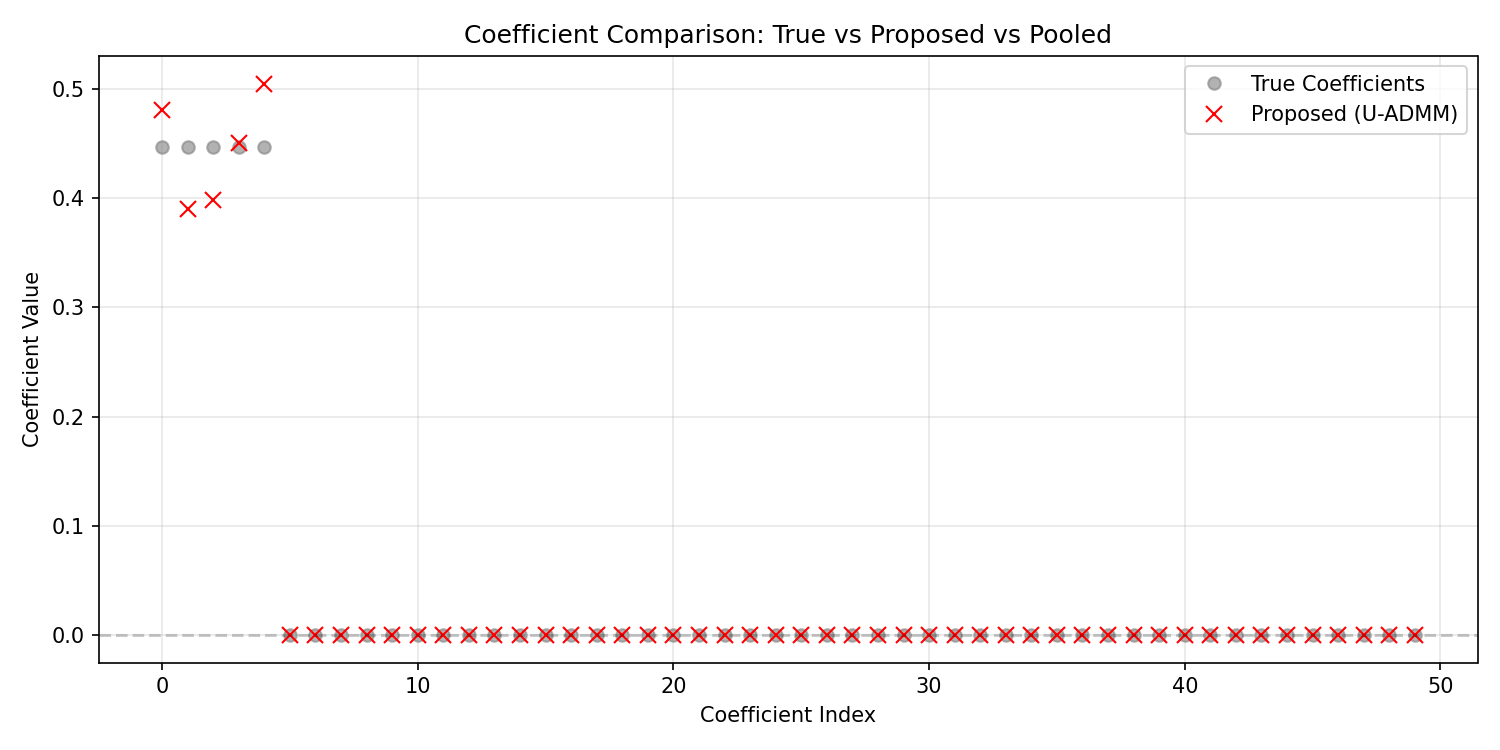
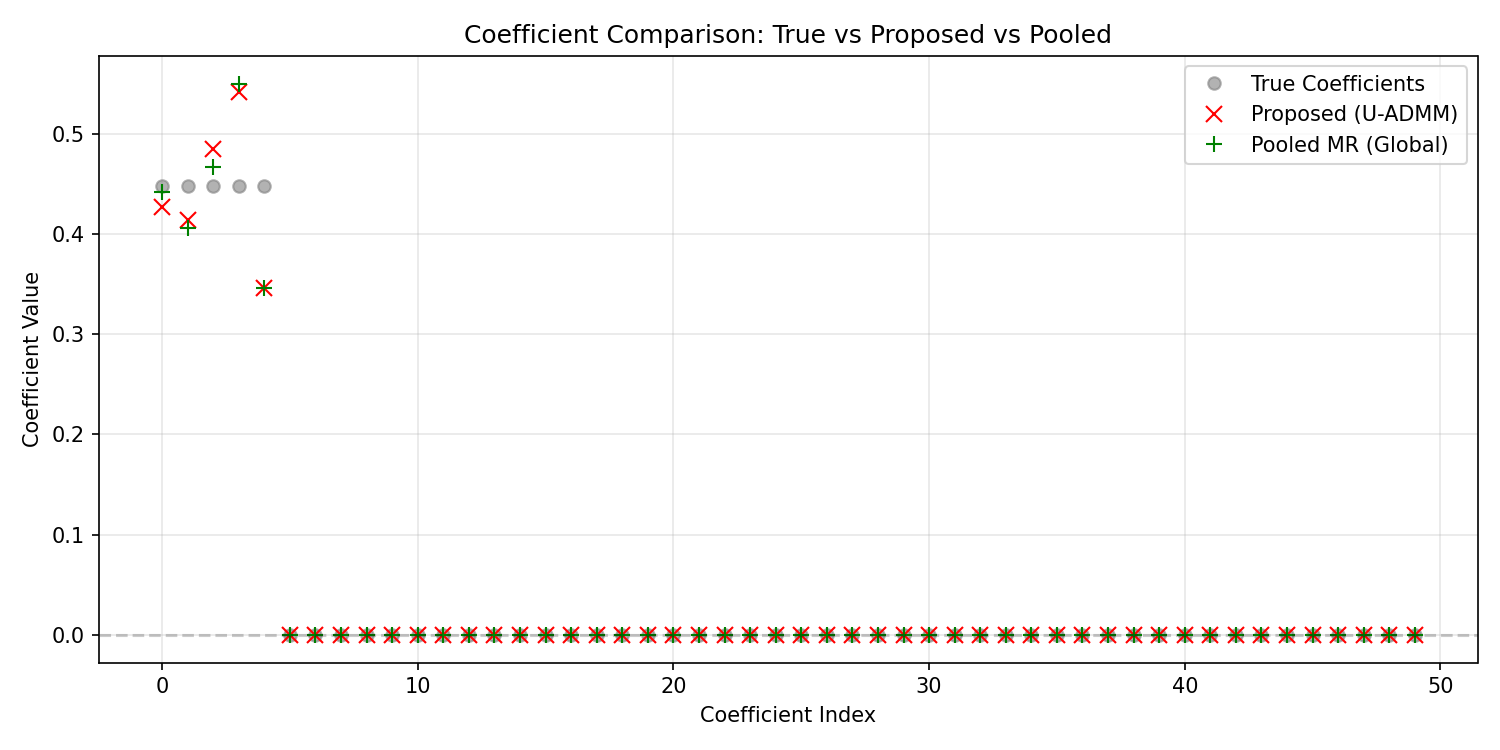
0.99999

diff --git a/algorithms/baselines.py b/algorithms/baselines.py
@@ -4,10 +4,84 @@ from models.ranking import rank_grad, rank_loss, ranking_pairs
 from models.aft import aft_grad, aft_loss, aft_pairs
 from algorithms.admm import local_gd
 
+# def run_global_u_erm(data, lr=0.5, n_iter=300, lambda_candidates=None, ic_type='bic', init_theta=None, return_history=False, tol=1e-5):
+#     """
+#     Pooled MR (Global U-ERM): 将所有本地数据汇总到一台机器上。
+#     引入正则化路径 (降序排列) + 连续热启动 + 双阶段解耦。
+#     """
+#     task = data['task']
+#     p = data['p']
+#     theta_true = data.get('theta_true', None) if return_history else None
+    
+#     if task == 'ranking':
+#         X_all = np.vstack(data['X'])
+#         Y_all = np.concatenate(data['Y'])
+#         dX, S = ranking_pairs(X_all, Y_all)
+        
+#         gfn = lambda th: rank_grad(th, dX, S)
+#         lfn = lambda th: rank_loss(th, dX, S)
+#         init = init_theta.copy() if init_theta is not None else np.ones((p, 1)) / np.sqrt(p)
+#         project = True
+        
+#     elif task == 'aft':
+#         X_all = np.vstack(data['X'])
+#         logTt_all = np.concatenate(data['logTt'])
+#         delta_all = np.concatenate(data['delta'])
+#         Sigma = data['Sigma']
+        
+#         dX, dlogTt, r2, r, di, dj, n_val = aft_pairs(X_all, logTt_all, delta_all, Sigma)
+        
+#         gfn = lambda th: aft_grad(th, dX, dlogTt, r2, r, di, dj, n_val)
+#         lfn = lambda th: aft_loss(th, dX, dlogTt, r2, r, di, dj, n_val)
+#         init = init_theta.copy() if init_theta is not None else np.zeros((p, 1))
+#         project = False
+        
+#     if lambda_candidates is not None and len(lambda_candidates) > 0:
+#         best_ic = float('inf')
+#         best_lam = 0.0
+#         N_total = sum(data['X'][j].shape[0] for j in range(data['m']))
+        
+#         # 核心改造 1：强制降序排列 lambda_candidates
+#         sorted_lambdas = sorted(lambda_candidates, reverse=True)
+#         # 核心改造 2：建立流动的热启动起点
+#         current_init_theta = init.copy()
+        
+#         # --- 阶段一：极速调参寻找最优 lambda ---
+#         for lam in sorted_lambdas:
+#             # 开启提前终止 (如果 local_gd 支持 tol) 进行极速收敛，不记录 history
+#             theta_tmp = local_gd(gfn, lfn, current_init_theta, n_iter=n_iter, lr_init=lr, project=project, lam=lam)
+            
+#             # 核心改造 3：用当前收敛的参数更新流动起点，喂给下一个更小的 lam
+#             current_init_theta = theta_tmp.copy()
+            
+#             loss_val = lfn(theta_tmp)
+#             df = np.sum(np.abs(theta_tmp) > 1e-4)
+#             avg_loss = loss_val if loss_val > 0 else 1e-10
+            
+#             if ic_type.lower() == 'aic':
+#                 ic_val = np.log(avg_loss) + (2.0 / N_total) * df
+#             else:
+#                 ic_val = np.log(avg_loss) + (np.log(N_total) / N_total) * df
+            
+#             if ic_val < best_ic:
+#                 best_ic = ic_val
+#                 best_lam = lam
+#     else:
+#         best_lam = 0.0
+
+#     # --- 阶段二：画图阶段 (使用全局最优 lambda 严格跑满 n_iter 轮) ---
+#     if return_history:
+#         # 回退到原始起点 init，严格跑满并记录 history
+#         best_theta, best_history = local_gd(gfn, lfn, init, n_iter=n_iter, lr_init=lr, project=project, lam=best_lam, theta_true=theta_true)
+#         return best_theta, best_history
+#     else:
+#         best_theta = local_gd(gfn, lfn, init, n_iter=n_iter, lr_init=lr, project=project, lam=best_lam)
+#         return best_theta
+# #以上的方法是继承制lam，以下的算法是并行lam
 def run_global_u_erm(data, lr=0.5, n_iter=300, lambda_candidates=None, ic_type='bic', init_theta=None, return_history=False, tol=1e-5):
     """
     Pooled MR (Global U-ERM): 将所有本地数据汇总到一台机器上。
-    引入正则化路径 (降序排列) + 连续热启动 + 双阶段解耦。
+    取消热启动，每个 lambda 独立从头开始，保证绝对公平的评估。
     """
     task = data['task']
     p = data['p']
@@ -41,18 +115,12 @@ def run_global_u_erm(data, lr=0.5, n_iter=300, lambda_candidates=None, ic_type='
         best_lam = 0.0
         N_total = sum(data['X'][j].shape[0] for j in range(data['m']))
         
-        # 核心改造 1：强制降序排列 lambda_candidates
         sorted_lambdas = sorted(lambda_candidates, reverse=True)
-        # 核心改造 2：建立流动的热启动起点
-        current_init_theta = init.copy()
         
         # --- 阶段一：极速调参寻找最优 lambda ---
         for lam in sorted_lambdas:
-            # 开启提前终止 (如果 local_gd 支持 tol) 进行极速收敛，不记录 history
-            theta_tmp = local_gd(gfn, lfn, current_init_theta, n_iter=n_iter, lr_init=lr, project=project, lam=lam)
-            
-            # 核心改造 3：用当前收敛的参数更新流动起点，喂给下一个更小的 lam
-            current_init_theta = theta_tmp.copy()
+            # 🔴 核心修复：绝对公平原则！取消热启动，每次测试新的 lam 都从最原始的 init.copy() 重新出发
+            theta_tmp = local_gd(gfn, lfn, init.copy(), n_iter=n_iter, lr_init=lr, project=project, lam=lam)
             
             loss_val = lfn(theta_tmp)
             df = np.sum(np.abs(theta_tmp) > 1e-4)
@@ -72,10 +140,10 @@ def run_global_u_erm(data, lr=0.5, n_iter=300, lambda_candidates=None, ic_type='
     # --- 阶段二：画图阶段 (使用全局最优 lambda 严格跑满 n_iter 轮) ---
     if return_history:
         # 回退到原始起点 init，严格跑满并记录 history
-        best_theta, best_history = local_gd(gfn, lfn, init, n_iter=n_iter, lr_init=lr, project=project, lam=best_lam, theta_true=theta_true)
+        best_theta, best_history = local_gd(gfn, lfn, init.copy(), n_iter=n_iter, lr_init=lr, project=project, lam=best_lam, theta_true=theta_true)
         return best_theta, best_history
     else:
-        best_theta = local_gd(gfn, lfn, init, n_iter=n_iter, lr_init=lr, project=project, lam=best_lam)
+        best_theta = local_gd(gfn, lfn, init.copy(), n_iter=n_iter, lr_init=lr, project=project, lam=best_lam)
         return best_theta
 
 def run_dgd(data, T=50, lr=0.1, lambda_candidates=None, ic_type='bic', theta_init_list=None, return_history=False, tol=1e-4):

diff --git a/utils/runner.py b/utils/runner.py
@@ -1,3 +1,11 @@
+import os
+# 🟢 终极并行加速：必须在 import numpy 之前锁死底层多线程！
+os.environ['OMP_NUM_THREADS'] = '1'
+os.environ['OPENBLAS_NUM_THREADS'] = '1'
+os.environ['MKL_NUM_THREADS'] = '1'
+os.environ['VECLIB_MAXIMUM_THREADS'] = '1'
+os.environ['NUMEXPR_NUM_THREADS'] = '1'
+
 import time
 import numpy as np
 from models.ranking import generate_ranking_data
@@ -47,7 +55,7 @@ def run_single_ranking(seed, params):
     np.random.seed(seed)
     d_rank = generate_ranking_data(
         m=params['m'], n=params['n'], p_prime=params['p_prime'], 
-        p=params['p'], pc=params['pc'], noise_type=params['noise_type'], rng_seed=seed
+        p=params['p'], pc=params['pc'], noise_type=params['noise_type'], rng_seed=seed,noise_scale=params.get('noise_scale', 1.0)
     )
     
     theta_true = d_rank['theta_true']
@@ -120,7 +128,7 @@ def run_single_aft(seed, params):
     np.random.seed(seed)
     d_aft = generate_aft_data(
         m=params['m'], n=params['n'], p_prime=params.get('p_prime', 5), p=params['p'], 
-        pc=params['pc'], noise_type=params['noise_type'], rng_seed=seed
+        pc=params['pc'], noise_type=params['noise_type'], rng_seed=seed,noise_scale=params.get('noise_scale', 1.0)
     )
     
     theta_true = d_aft['theta_true']
